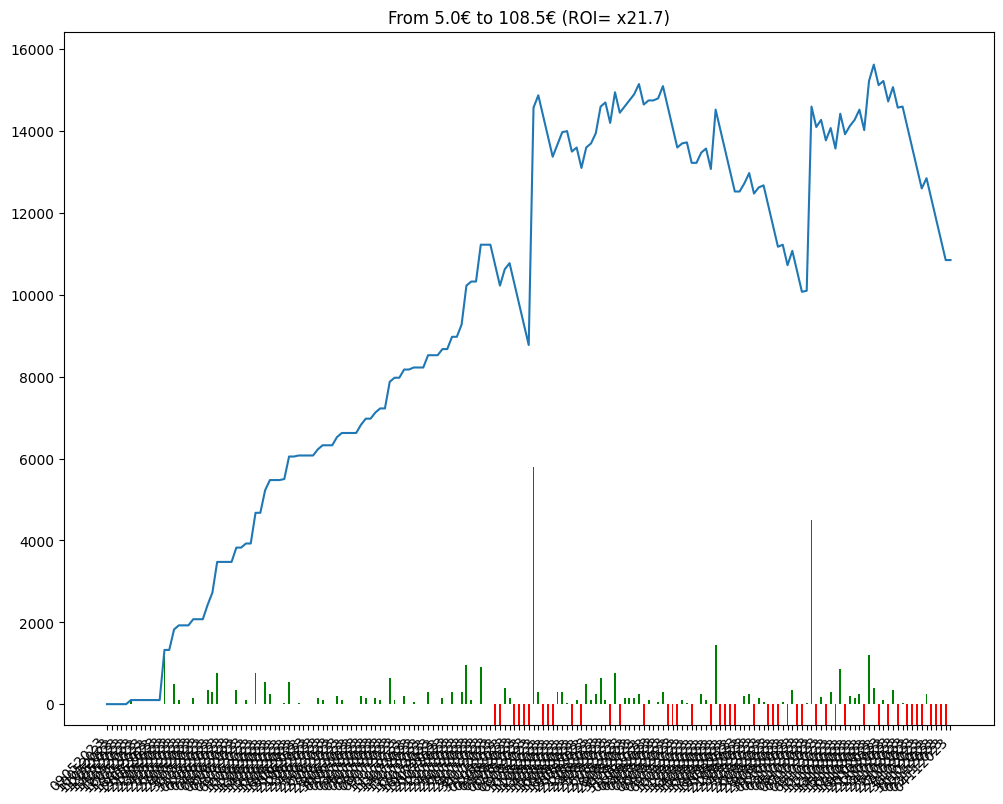
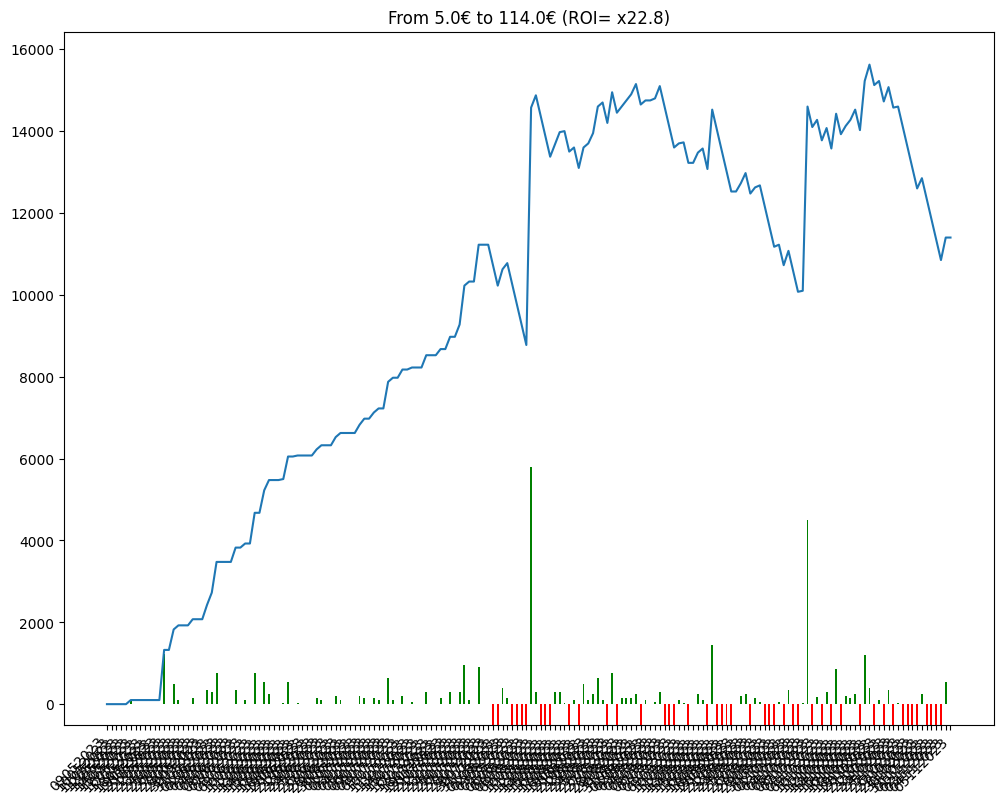
comment from python script

diff --git a/bethistory.html b/bethistory.html
@@ -86,7 +86,8 @@
             En observant la courbe 🤔, on peut avoir une idée visuelle de l'évolution des gains et ainsi évaluer le model utilisé 🧑🏫.
         </p>
         
-        <img src = "/candle.png" alt="candle chart"/><table><tr><td>Chevaux joués</td><td>Gains</td><td>URL Circuits</td></tr><tr><td>2 - CALON LAN</td><td>0</td><td><a href=https://www.pmu.fr/turf/04112023/r1/c1 target="_blank">https://www.pmu.fr/turf/04112023/r1/c1</a></td></tr>
+        <img src = "/candle.png" alt="candle chart"/><table><tr><td>Chevaux joués</td><td>Gains</td><td>URL Circuits</td></tr><tr><td>9 - AQUA AUGUSTA</td><td>0</td><td><a href=https://www.pmu.fr/turf/05112023/r1/c2 target="_blank">https://www.pmu.fr/turf/05112023/r1/c2</a></td></tr>
+<tr><td>2 - CALON LAN</td><td>+550</td><td><a href=https://www.pmu.fr/turf/04112023/r1/c1 target="_blank">https://www.pmu.fr/turf/04112023/r1/c1</a></td></tr>
 <tr><td>1 - PRINCE GEORGE</td><td>-500</td><td><a href=https://www.pmu.fr/turf/03112023/r5/c6 target="_blank">https://www.pmu.fr/turf/03112023/r5/c6</a></td></tr>
 <tr><td>8 - SHALAA DANCER</td><td>-500</td><td><a href=https://www.pmu.fr/turf/02112023/r3/c4 target="_blank">https://www.pmu.fr/turf/02112023/r3/c4</a></td></tr>
 <tr><td>11 - MIGHTY STAR</td><td>-500</td><td><a href=https://www.pmu.fr/turf/01112023/r2/c2 target="_blank">https://www.pmu.fr/turf/01112023/r2/c2</a></td></tr>
